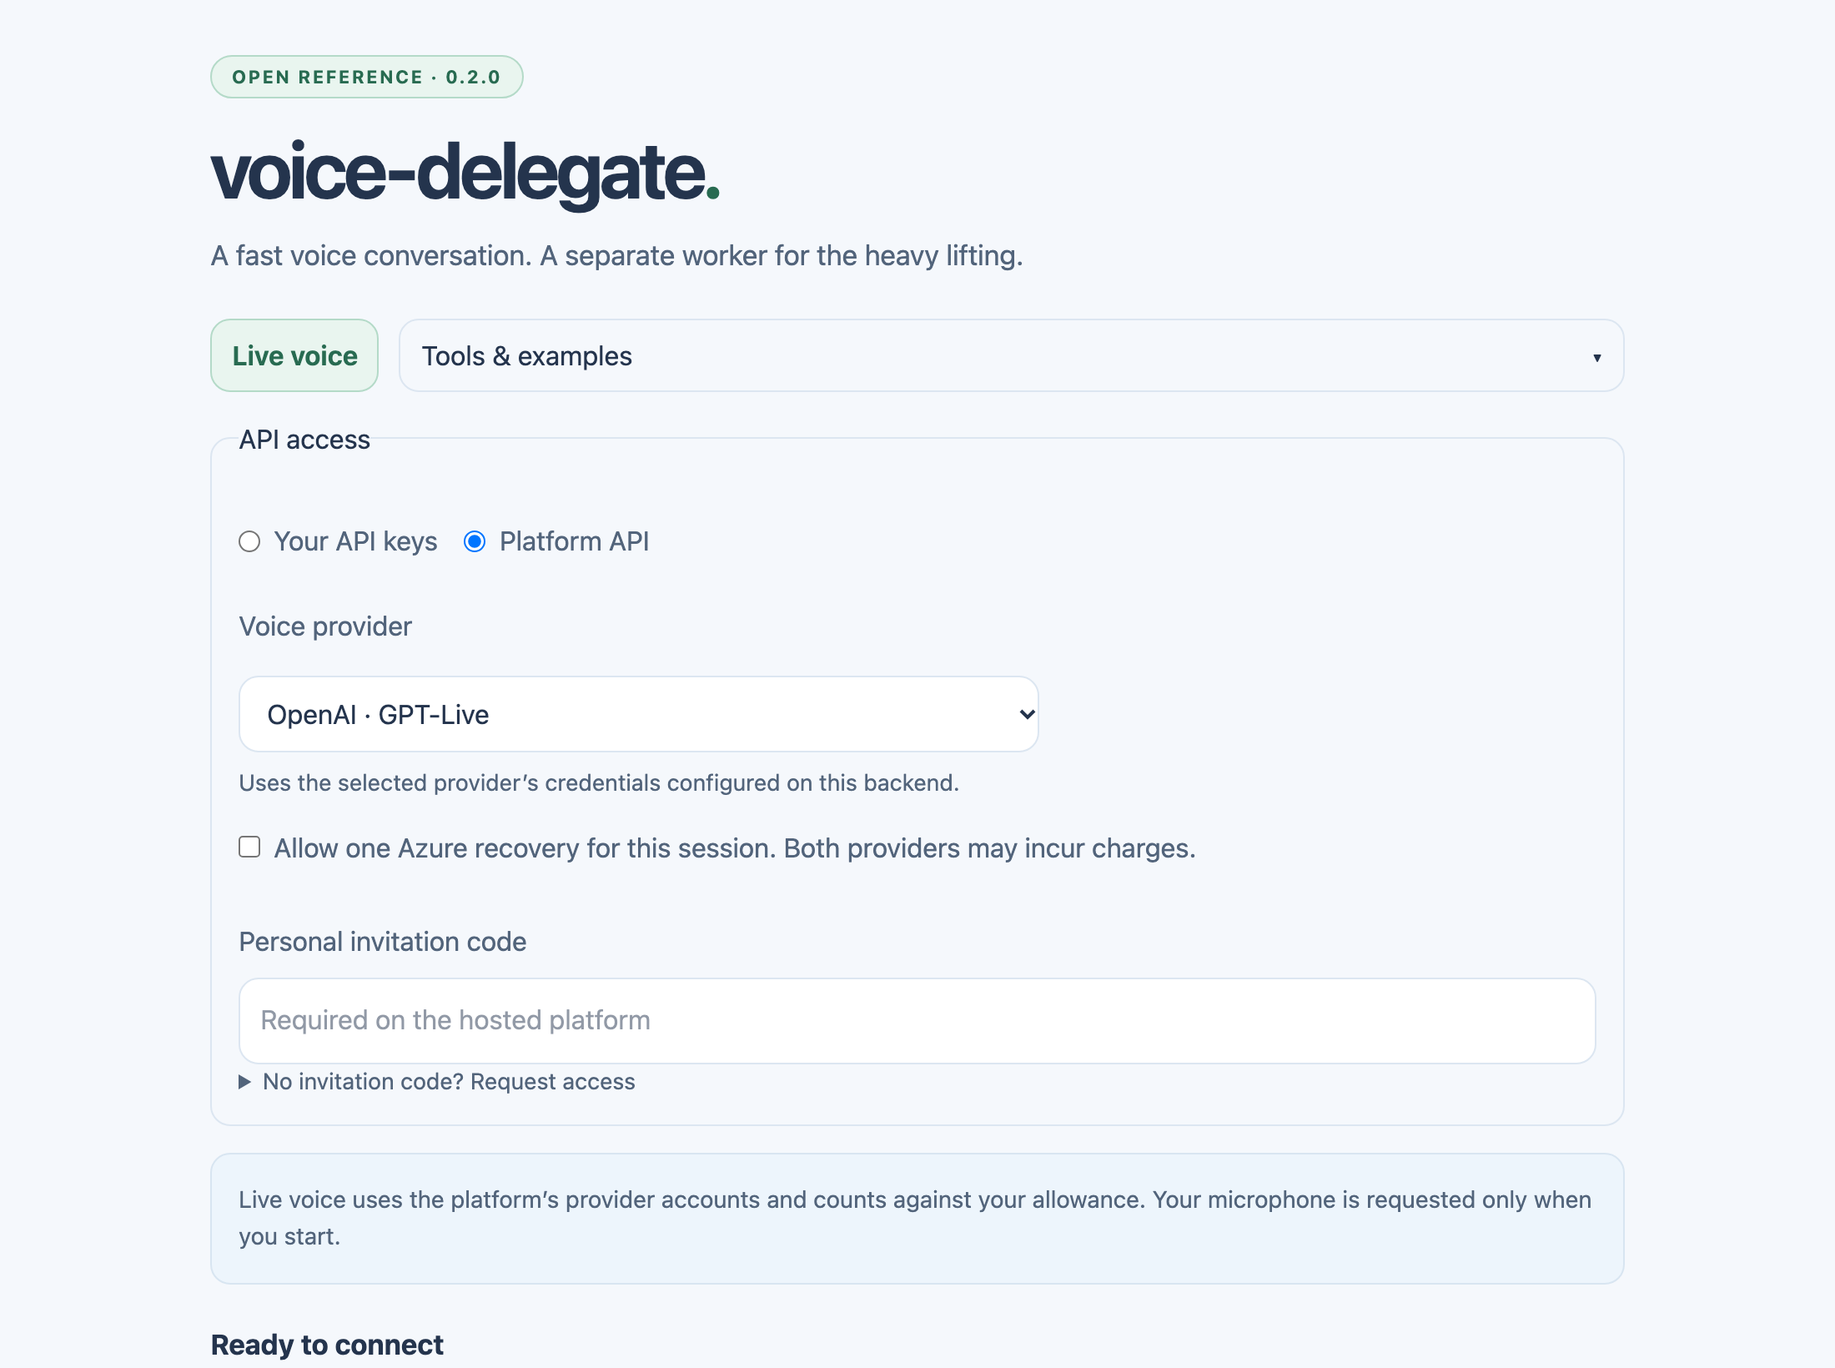
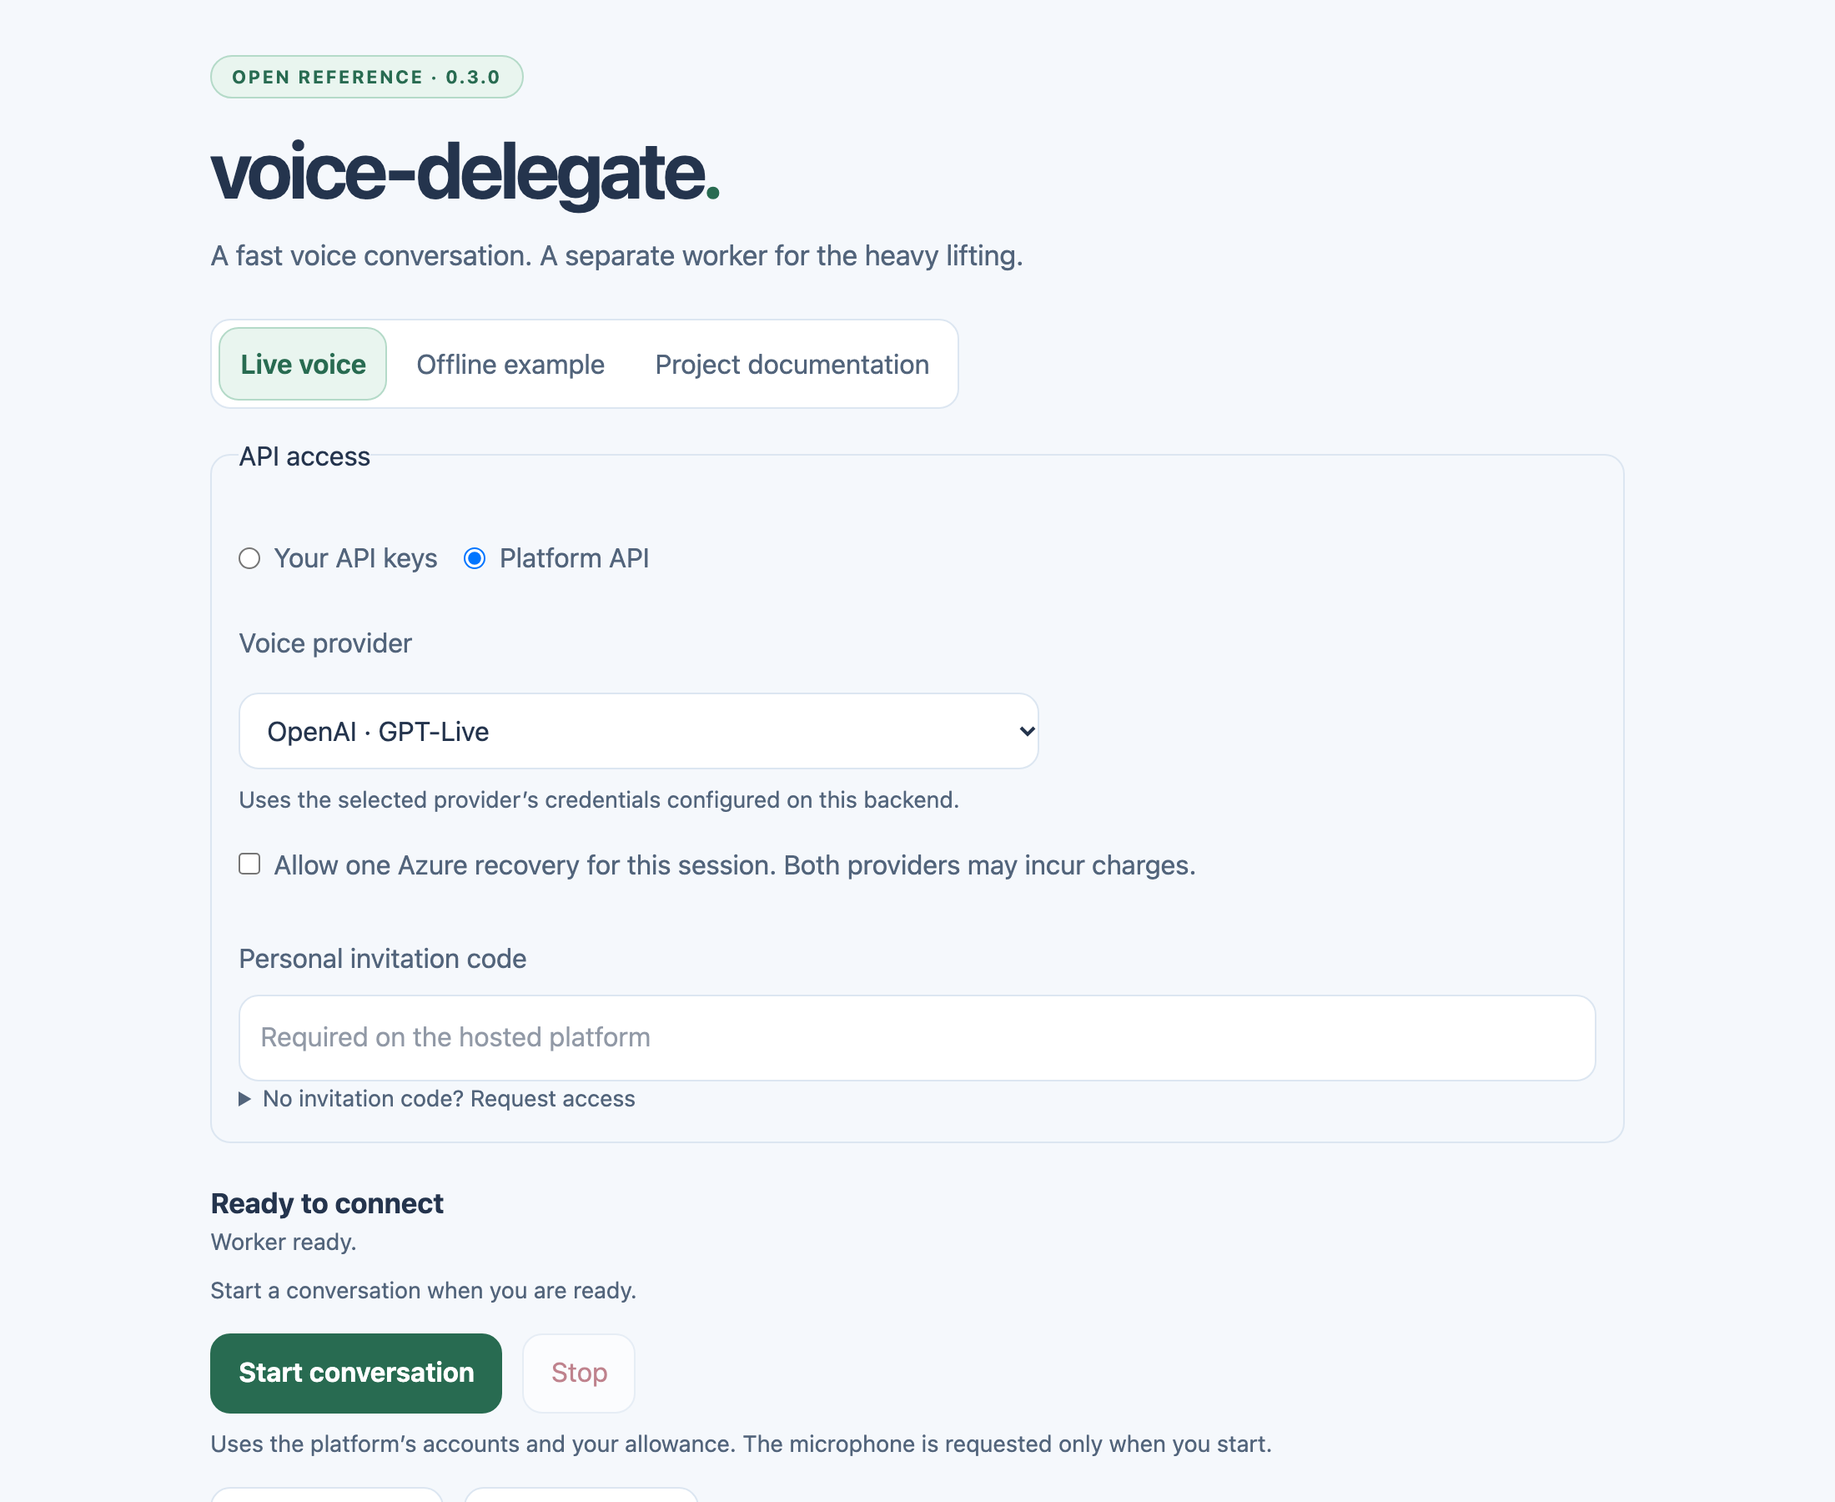
Flat workspace tabs, one-line billing note and stale docs cleanup (#36)
* Remove stale Realtime and alias references from the docs; refresh the screenshot

The roadmap no longer calls ElevenLabs unsupported or lists OpenAI Realtime
benchmarks, describes the removed VOICE_VOICE_PROVIDER alias as refused since
0.3.0, and the architecture page names the current onset and readiness events.
The README screenshot shows 0.3.0 and the new tab navigation.

* Flat workspace tabs, one-line billing note and narrow-screen layout

Live voice, Offline example and Project documentation are three peer tabs
instead of a tab next to a full-width Tools & examples dropdown, so visitors
without a code see the offline example immediately. The billing notice is one
muted line under Start, which now sits above the fold on a laptop. Below 480px
the tabs share the width equally; 320, 390 and 1280px render without
horizontal scroll.

* Address review: grid tabs on phones and the ElevenLabs connected state

Below 480px the tabs use a two-column grid with the third tab on its own row,
so long labels cannot push past a 320px viewport with wider system fonts.
The architecture page scopes the SDP/sideband meaning of connected to GPT-Live
and states that ElevenLabs connects when attach_sdk receives the SDK report.

* Point visitors without a code to the offline example and their own keys

While the invitation field is empty, a short hint links to the Offline example
and names Your API keys, so a visitor from GitHub has a free path and a
[…]

Changed region(s): [[0.0927, 0.0933, 0.6491, 0.653], [0.0927, 0.6841, 0.8655, 0.9951], [0.1236, 0.0311, 0.2782, 0.0622]]

diff --git a/frontend/src/style.css b/frontend/src/style.css
@@ -129,35 +129,45 @@ a:focus-visible {
 .workspace-navigation {
   display: flex;
   flex-wrap: wrap;
-  align-items: start;
-  gap: var(--space-3);
+  gap: var(--space-1);
+  width: fit-content;
+  max-width: 100%;
   margin-bottom: var(--space-4);
+  padding: var(--space-1);
+  border: 1px solid var(--line);
+  border-radius: var(--radius-control);
+  background: var(--surface);
 }
-.workspace-navigation > a,
-.workspace-navigation summary,
-.workspace-navigation details a {
+.workspace-navigation a {
   display: flex;
   align-items: center;
   min-height: 44px;
   padding: var(--space-2) var(--space-3);
-  border: 1px solid var(--line);
+  border: 1px solid transparent;
   border-radius: var(--radius-control);
+  color: var(--muted);
   text-decoration: none;
-  cursor: pointer;
 }
-.workspace-navigation summary::after {
-  content: '▾';
-  margin-left: auto;
+.workspace-navigation a:hover {
+  color: var(--ink);
 }
-.workspace-navigation details[open] summary::after {
-  content: '▴';
-}
-.workspace-navigation details {
-  flex: 1;
-  min-width: 180px;
-}
-.workspace-navigation details a {
-  margin-top: var(--space-2);
+@media (max-width: 480px) {
+  .workspace-navigation {
+    display: grid;
+    grid-template-columns: repeat(2, minmax(0, 1fr));
+    width: 100%;
+  }
+  .workspace-navigation a {
+    min-width: 0;
+    justify-content: center;
+    padding: var(--space-2);
+    text-align: center;
+    line-height: 1.2;
+    overflow-wrap: anywhere;
+  }
+  .workspace-navigation a:last-child {
+    grid-column: 1 / -1;
+  }
 }
 .workspace-navigation [aria-current='page'] {
   border-color: var(--accent-line);
@@ -184,6 +194,11 @@ h2 {
 .muted {
   color: var(--muted);
   font-size: 0.86rem;
+}
+.muted a {
+  color: var(--accent-deep);
+  text-decoration: underline;
+  text-underline-offset: 2px;
 }
 .badge {
   display: inline-flex;

diff --git a/frontend/tests/session-panels.spec.ts b/frontend/tests/session-panels.spec.ts
@@ -91,7 +91,6 @@ test('leaving voice for a secondary tool closes the session and releases media',
   await page.goto('/');
   await page.getByRole('button', { name: 'Start conversation', exact: true }).click();
   await expect(page.locator('#status')).toContainText('Connected');
-  await page.getByText('Tools & examples', { exact: true }).click();
   await page.getByRole('link', { name: 'Offline example', exact: true }).click();
   await expect(page.getByRole('button', { name: 'Start demo', exact: true })).toBeVisible();
   await expect.poll(() => closed).toEqual(['/api/sessions/owned/close']);
@@ -248,4 +247,20 @@ test('remote approval asks for an email and explains where it goes', async ({ pa
     page.getByRole('status').filter({ hasText: 'will email you an invitation code' }),
   ).toBeVisible();
   expect(body).toEqual({ contact: 'visitor@example.com', note: '' });
+});
+
+test('visitors without a code are pointed to the offline example and their own keys', async ({
+  page,
+}) => {
+  await page.route('**/api/config', (route) =>
+    route.fulfill({ json: { voice_available: true, requires_access_code: true } }),
+  );
+  await page.goto('/');
+  const hint = page.locator('#no-code-hint');
+  await expect(hint).toContainText('Your API keys');
+  await hint.getByRole('link', { name: 'Offline example' }).click();
+  await expect(page).toHaveURL(/#demo$/);
+  await page.goto('/#live');
+  await page.getByLabel('Personal invitation code').fill('code');
+  await expect(hint).toBeHidden();
 });

diff --git a/frontend/tests/demo.spec.ts b/frontend/tests/demo.spec.ts
@@ -64,17 +64,18 @@ test('voice is primary and secondary tools support keyboard navigation and direc
   await page.setViewportSize({ width: 390, height: 844 });
   await page.route('**/api/config', (route) => route.fulfill({ json: { voice_available: true } }));
   await page.goto('/');
+  const nav = page.getByRole('navigation', { name: 'Workspace' });
   await expect(page.getByRole('button', { name: 'Start conversation' })).toBeVisible();
   await expect(page.getByRole('link', { name: 'Live voice', exact: true })).toHaveAttribute(
     'aria-current',
     'page',
   );
-  await expect(page.getByRole('link', { name: 'Offline example', exact: true })).toBeHidden();
-  await expect(page.getByRole('link', { name: 'Project documentation', exact: true })).toBeHidden();
-  await page.getByText('Tools & examples', { exact: true }).focus();
-  await page.keyboard.press('Enter');
+  await expect(
+    page.getByRole('link', { name: 'Project documentation', exact: true }),
+  ).toBeVisible();
+  await page.getByRole('link', { name: 'Live voice', exact: true }).focus();
   await page.keyboard.press('Tab');
-  await expect(page.getByRole('link', { name: 'Offline example', exact: true })).toBeFocused();
+  await expect(nav.getByRole('link', { name: 'Offline example', exact: true })).toBeFocused();
   await page.keyboard.press('Enter');
   await expect(page).toHaveURL(/#demo$/);
   await expect(page.getByRole('region', { name: 'Offline example', exact: true })).toBeVisible();

diff --git a/frontend/src/components/WorkspaceNavigation.tsx b/frontend/src/components/WorkspaceNavigation.tsx
@@ -1,22 +1,24 @@
-/** Secondary tools stay discoverable without competing with the voice workspace. */
+/** Three peer tabs: live voice first, then the two views that need no microphone or key. */
 export type Mode = 'live' | 'demo' | 'reference';
+
+const TABS: { mode: Mode; label: string }[] = [
+  { mode: 'live', label: 'Live voice' },
+  { mode: 'demo', label: 'Offline example' },
+  { mode: 'reference', label: 'Project documentation' },
+];
 
 export function WorkspaceNavigation({ mode }: { mode: Mode }) {
   return (
     <nav className="workspace-navigation" aria-label="Workspace">
-      <a href="#live" aria-current={mode === 'live' ? 'page' : undefined}>
-        Live voice
-      </a>
-      <details open={mode !== 'live' ? true : undefined}>
-        <summary>Tools &amp; examples</summary>
-        <p className="muted">Explore the project without starting a voice conversation.</p>
-        <a href="#demo" aria-current={mode === 'demo' ? 'page' : undefined}>
-          Offline example
+      {TABS.map((tab) => (
+        <a
+          key={tab.mode}
+          href={`#${tab.mode}`}
+          aria-current={mode === tab.mode ? 'page' : undefined}
+        >
+          {tab.label}
         </a>
-        <a href="#reference" aria-current={mode === 'reference' ? 'page' : undefined}>
-          Project documentation
-        </a>
-      </details>
+      ))}
     </nav>
   );
 }

diff --git a/frontend/src/components/LiveWorkspace.tsx b/frontend/src/components/LiveWorkspace.tsx
@@ -179,12 +179,6 @@ export function LiveWorkspace({ code, onCode }: { code: string; onCode: (code: s
           pending.
         </p>
       )}
-      <p className="notice">
-        {apiSource === 'personal'
-          ? 'Live voice uses your own provider accounts, which bill you directly.'
-          : 'Live voice uses the platform’s provider accounts and counts against your allowance.'}{' '}
-        Your microphone is requested only when you start.
-      </p>
       {state.sessionUi && state.active && <SpeakingStatus activity={state.speaking} />}
       <div className="session-controls">
         <p id="status" role="status">
@@ -287,6 +281,12 @@ export function LiveWorkspace({ code, onCode }: { code: string; onCode: (code: s
             Stop
           </Button>
         </div>
+        <p id="billing-note" className="muted">
+          {apiSource === 'personal'
+            ? 'Billed to your own provider accounts.'
+            : 'Uses the platform’s accounts and your allowance.'}{' '}
+          The microphone is requested only when you start.
+        </p>
         <div className="actions">
           <Button id="mute-audio" aria-pressed={muted} onClick={() => setMuted((value) => !value)}>
             {muted ? 'Unmute assistant' : 'Mute assistant'}

diff --git a/frontend/src/components/ApiAccess.tsx b/frontend/src/components/ApiAccess.tsx
@@ -120,6 +120,12 @@ export function ApiAccess({
               onChange={(event) => onCode(event.target.value)}
             />
           </label>
+          {!code && !disabled && (
+            <p className="muted" id="no-code-hint">
+              No code? Try the <a href="#demo">Offline example</a>, or choose{' '}
+              <strong>Your API keys</strong> above to use your own provider account.
+            </p>
+          )}
           {requestAccess && !disabled && <RequestAccess email={requestAccessEmail} />}
         </>
       ) : (

diff --git a/frontend/tests/theme.spec.ts b/frontend/tests/theme.spec.ts
@@ -5,7 +5,6 @@ test('narrow navigation remains visible and keyboard focus has sufficient contra
 }) => {
   await page.setViewportSize({ width: 320, height: 800 });
   await page.goto('/');
-  await page.getByText('Tools & examples', { exact: true }).click();
   const tabs = page.getByRole('navigation', { name: 'Workspace' }).getByRole('link');
   for (const tab of await tabs.all()) {
     const bounds = await tab.boundingBox();

diff --git a/docs/architecture.md b/docs/architecture.md
@@ -122,9 +122,9 @@ stateDiagram-v2
     end note
 ```
 
-Diagram HTTP paths are relative to `/api`. The interruption counter is incremented by `SessionManager.interrupt` only while delegation is running. Transcript-based interruption additionally requires real provider timing; Realtime uses `SpeechStarted` as its authoritative onset event.
+Diagram HTTP paths are relative to `/api`. The interruption counter is incremented by `SessionManager.interrupt` only while delegation is running. Transcript-based interruption additionally requires real provider timing; for ElevenLabs Agents, a user transcript reported by the browser SDK emits `SpeechStarted` as the onset event.
 
-The normal transport lifecycle is `created → connecting → connected → closing → closed`. A single fallback attempt adds `connected → reconnecting → connected`; a failed attempt marks the session closed and releases its admission lease. `connected` means SDP and sideband setup completed; the browser separately handles `session.started` (Live) or `session.created` (Realtime) to display voice readiness. A session lock serializes offer, reconnect and close operations. A duplicate offer returns 409. Closed sessions are removed rather than retained indefinitely. Repeating the internal close is safe; a later HTTP request for an already-removed session returns 404.
+The normal transport lifecycle is `created → connecting → connected → closing → closed`. A single fallback attempt adds `connected → reconnecting → connected`; a failed attempt marks the session closed and releases its admission lease. For GPT-Live on OpenAI and Azure, `connected` means SDP and sideband setup completed and the browser separately handles `session.started` to display voice readiness; ElevenLabs Agents use SDK-managed WebRTC with no SDP answer, so the session becomes `connected` when `SessionManager.attach_sdk` receives the browser-reported SDK connection. A session lock serializes offer, reconnect and close operations. A duplicate offer returns 409. Closed sessions are removed rather than retained indefinitely. Repeating the internal close is safe; a later HTTP request for an already-removed session returns 404.
 
 A single WebSocket reader receives lifecycle events even while close is waiting. Queue exhaustion ends event consumption with an error rather than dropping delegation or termination messages silently. Graceful finalization may be unconfirmed after overflow or a transport failure. The browser heartbeat maintains liveness; it never resets the absolute session deadline.
 

diff --git a/docs/roadmap.md b/docs/roadmap.md
@@ -124,8 +124,8 @@ observes a real local WebRTC tone loopback without a provider; this verifies mea
 plumbing, not voice recognition or model quality. Paid comparison runs require explicit
 opt-in, a clean source revision, hashed local WAV inputs and an exact session budget.
 
-GPT-Live, OpenAI Realtime and Azure comparison results remain pending. ElevenLabs remains
-unsupported until its transport evaluation and adapter are approved. No paid calls,
+GPT-Live (OpenAI and Azure) and ElevenLabs Agents comparison results remain pending; the
+OpenAI Realtime adapter was removed in 0.3.0. No paid calls,
 new deployment, measured provider latency or new live acceptance are claimed. The current
 Grafana stack has no retained trace data source; the optional trace exporter is verified
 with offline mocks and requires an existing Tempo-backed Grafana for a real export.
@@ -153,8 +153,8 @@ local invitation without rewriting existing configuration or credentials.
 
 ### Configuration naming and worker model migration
 
-`VOICE_ADAPTER` replaces the ambiguous voice-provider selector name, with the old
-name accepted as a deprecated alias. New worker/eval defaults use GPT-6 Luna with
+`VOICE_ADAPTER` replaces the ambiguous voice-provider selector name. The old name was a
+deprecated alias in 0.2.0; since 0.3.0 the backend refuses to start while it is set. New worker/eval defaults use GPT-6 Luna with
 Chat Completions reasoning disabled for tool calling. Offline request-format and
 alias-precedence checks are separate from live model acceptance, which is pending.
 Existing explicit environment overrides are not silently changed.

diff --git a/deployment/README.md b/deployment/README.md
@@ -74,7 +74,7 @@ there are no refunds on failed creation. Local Docker checks cover authenticatio
 quota persistence after restart, not the availability of a publicly hosted deployment.
 
 The [Documentation workflow](../docs/milestones/m6.md) is bundled with the agent and available
-under Tools & examples → Project documentation without a paid model call.
+in the Project documentation tab without a paid model call.
 
 
 ## Cost controls
@@ -251,7 +251,7 @@ Open **http://localhost:8080**, then **Run offline worker**. The fake provider e
 one fixed arithmetic request; the backend delegates through the private worker service
 to LangGraph's OfflinePlanner and displays the actual result. No provider keys,
 microphone or generated voice are used. The public-site Offline example remains
-static under Tools & examples; this container enables `VITE_OFFLINE_STACK=true` at build time and the backend
+static in the Offline example tab; this container enables `VITE_OFFLINE_STACK=true` at build time and the backend
 factory requires `VOICE_OFFLINE_DEMO=1`. This factory refuses provider keys, paid
 planning, fallback and server transcript recording. Compose does not import local
 provider environment files or forward host provider keys.

diff --git a/README.md b/README.md
@@ -45,7 +45,7 @@ individual tools.
 - **Hosted:** open [voice-delegate.vercel.app](https://voice-delegate.vercel.app). Choose
   **Your API keys** to use your own provider account, or **Platform API** with an
   invitation code. No code? Use **Request access** on the page and the maintainer is notified.
-- **No keys at all:** **Tools & examples → Offline example** plays a scripted session
+- **No keys at all:** the **Offline example** tab plays a scripted session
   for free, with no microphone or backend.
 - **Locally:** see below.
 
@@ -63,7 +63,7 @@ make invite   # terminal 3: prints the local invitation code
 ```
 
 Paste the code, choose **Live voice** and start talking. Without a key, the worker runs
-its offline planner and **Tools & examples → Offline example** still works. Voice and
+its offline planner and the **Offline example** tab still works. Voice and
 text-worker usage are billed separately by the provider; a ChatGPT subscription is not an
 API key. Details: [local development](docs/local-development.md) and the
 [configuration reference](docs/configuration.md).

diff --git a/frontend/README.md b/frontend/README.md
@@ -38,8 +38,8 @@ and existing Tailwind utilities where useful. No complete CSS migration is requi
 
 `src/components/Button.tsx` provides primary, secondary and danger actions while retaining
 native button attributes. Its default type is `button`; form actions explicitly use
-`type="submit"`. `WorkspaceNavigation.tsx` keeps Live voice primary and places Offline example and Project
-documentation under Tools & examples. Native links support keyboard navigation and browser
+`type="submit"`. `WorkspaceNavigation.tsx` renders Live voice, Offline example and Project
+documentation as three peer tabs, Live voice first. Native links support keyboard navigation and browser
 history; `#live`, `#demo` and `#reference` can be opened directly.
 Keep those components at module scope so rerenders preserve component identity.
 
